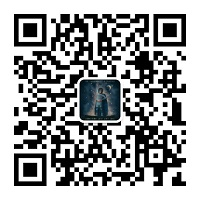
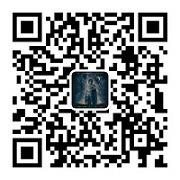
微信img

diff --git a/_includes/footer.html b/_includes/footer.html
@@ -123,7 +123,7 @@
 <style>
 	#kwcode {
 		width: 200px;
-		height: 220px;
+		height: 200px;
 		box-shadow: 0 3px 10px rgba(0,0,0,.15);
 		box-sizing: border-box;
 		background-color: #fff;
@@ -132,7 +132,7 @@
 		left: 50%;
 		margin-left: -100px;
 		border-radius: 6px;
-		padding: 15px;
+		padding: 10px;
 		border: 1px solid #ddd;
 	}
 </style>
